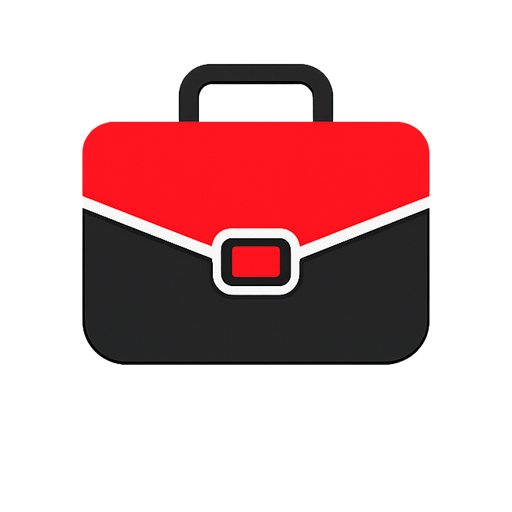
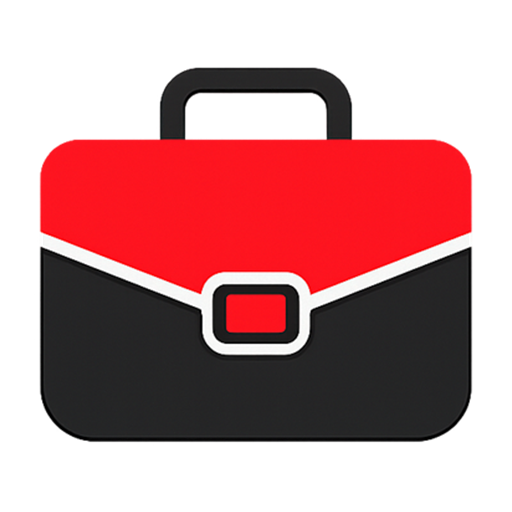
Edicion de app PWA terminada

diff --git a/service-worker.js b/service-worker.js
@@ -1,15 +1,15 @@
-const CACHE_NAME = "redjob-shell-20260609b";
+const CACHE_NAME = "redjob-shell-20260609c";
 const APP_SHELL = [
   "/",
   "/index.html",
   "/offline.html",
   "/styles.css?v=20260609c",
   "/app.js?v=20260609d",
-  "/manifest.json?v=20260609a",
+  "/manifest.json?v=20260609b",
   "/assets/redjob-logo-header.png",
-  "/assets/redjob-icon-192.png",
-  "/assets/redjob-icon-512.png",
-  "/assets/redjob-icon-maskable-512.png"
+  "/assets/redjob-icon-192.png?v=20260609b",
+  "/assets/redjob-icon-512.png?v=20260609b",
+  "/assets/redjob-icon-maskable-512.png?v=20260609b"
 ];
 
 self.addEventListener("install", (event) => {

diff --git a/index.html b/index.html
@@ -24,9 +24,9 @@
     <meta name="twitter:image" content="https://redjob.com.mx/assets/redjob-social-preview.png" />
     <link rel="canonical" href="https://redjob.com.mx/" />
     <title>RedJob | Empleos y vacantes en México</title>
-    <link rel="manifest" href="./manifest.json?v=20260609a" />
+    <link rel="manifest" href="./manifest.json?v=20260609b" />
     <link rel="icon" type="image/png" sizes="512x512" href="./assets/redjob-favicon.png?v=20260609a" />
-    <link rel="apple-touch-icon" href="./assets/redjob-icon-192.png?v=20260609a" />
+    <link rel="apple-touch-icon" href="./assets/redjob-icon-192.png?v=20260609b" />
     <link rel="preconnect" href="https://fonts.googleapis.com" />
     <link rel="preconnect" href="https://fonts.gstatic.com" crossorigin />
     <link href="https://fonts.googleapis.com/css2?family=Inter:wght@400;500;600;700;800;900&family=Plus+Jakarta+Sans:wght@400;500;600;700;800&display=swap" rel="stylesheet" />